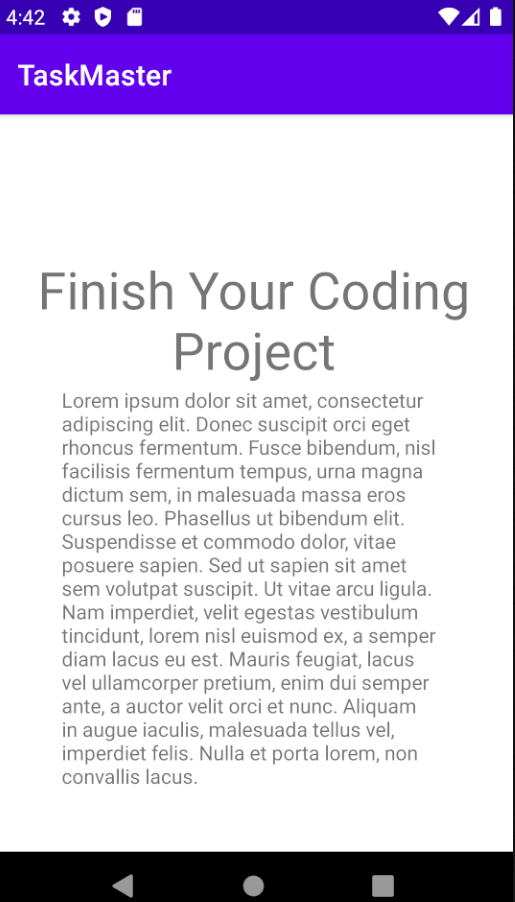
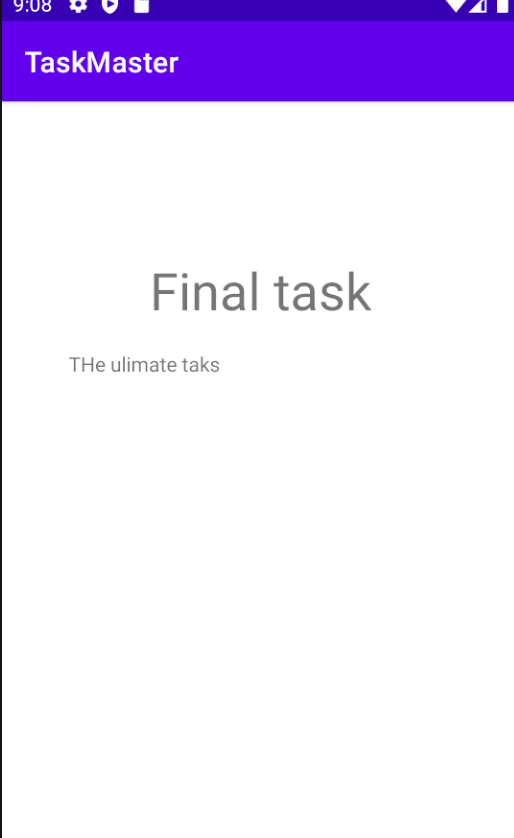
Finished lab 29 with working app and features

Changed region(s): [[0.0623, 0.2792, 0.9339, 0.8687], [0.0, 0.0, 1.0, 1.0]]

diff --git a/app/src/main/java/com/potatogod123/taskmaster/MainActivity.java b/app/src/main/java/com/potatogod123/taskmaster/MainActivity.java
@@ -3,6 +3,7 @@ package com.potatogod123.taskmaster;
 import androidx.appcompat.app.AppCompatActivity;
 import androidx.recyclerview.widget.LinearLayoutManager;
 import androidx.recyclerview.widget.RecyclerView;
+import androidx.room.Room;
 
 import android.content.Intent;
 import android.content.SharedPreferences;
@@ -21,12 +22,15 @@ import java.util.Locale;
 public class MainActivity extends AppCompatActivity implements TaskRecycleAdapter.ClickOnTaskButtonAble {
     static TaskRecycleAdapter taskRecycleAdapter;
 
-    public static List<TaskModel> allTask = new ArrayList<>();
+    //set this up as a service so it can use else where with autowire :))))
+    TaskDatabase taskDatabase;
+
+//    public static List<TaskModel> allTask = new ArrayList<>();
 
     static{
-        allTask.add(new TaskModel("Buy a dog","Go and buy a dog, steal one whatever"));
-        allTask.add(new TaskModel("Sell a dog","Go and sell a dog, give it for free whatever"));
-        allTask.add(new TaskModel("Use the Restroom","quick! it's been a long day :("));
+//        allTask.add(new TaskModel("Buy a dog","Go and buy a dog, steal one whatever"));
+//        allTask.add(new TaskModel("Sell a dog","Go and sell a dog, give it for free whatever"));
+//        allTask.add(new TaskModel("Use the Restroom","quick! it's been a long day :("));
     }
 
     @Override
@@ -39,18 +43,15 @@ public class MainActivity extends AppCompatActivity implements TaskRecycleAdapte
         Button goToAllTaskButton = findViewById(R.id.goToAllTaskButton);
         Button goSettingsButton = findViewById(R.id.goToSettingsButton);
 
-        RecyclerView recyclerView = findViewById(R.id.taskRecyclerViewMain);
-        recyclerView.setLayoutManager(new LinearLayoutManager(this));
-        taskRecycleAdapter= new TaskRecycleAdapter(this);
 
-        recyclerView.setAdapter(taskRecycleAdapter);
 
-        Button recyclerButton = findViewById(R.id.recycleButton);
 
-        recyclerButton.setOnClickListener(v -> {
-            Intent intent = new Intent(MainActivity.this, RecyclerViewPractice.class);
-            startActivity(intent);
-        });
+//        Button recyclerButton = findViewById(R.id.recycleButton);
+//
+//        recyclerButton.setOnClickListener(v -> {
+//            Intent intent = new Intent(MainActivity.this, RecyclerViewPractice.class);
+//            startActivity(intent);
+//        });
 
 
 
@@ -76,12 +77,23 @@ public class MainActivity extends AppCompatActivity implements TaskRecycleAdapte
     protected  void onResume(){
         super.onResume();
         SharedPreferences pref = getSharedPreferences("userdetails",MODE_PRIVATE);
-
         String username = pref.getString("username",null);
 
         if(username!=null){
             ((TextView) findViewById(R.id.textViewMainMyTaskTitle)).setText(String.format(Locale.getDefault(),"Welcome %s, These are your task:",username));
         }
+
+        taskDatabase= Room.databaseBuilder(getApplicationContext(), TaskDatabase.class,"potatogod123_task")
+                .allowMainThreadQueries()
+                .build();
+
+        List<TaskModel> allTask = taskDatabase.taskModelDao().findAll();
+
+        RecyclerView recyclerView = findViewById(R.id.taskRecyclerViewMain);
+        recyclerView.setLayoutManager(new LinearLayoutManager(this));
+        taskRecycleAdapter= new TaskRecycleAdapter(this,allTask,0);
+
+        recyclerView.setAdapter(taskRecycleAdapter);
     }
 
 

diff --git a/app/src/main/java/com/potatogod123/taskmaster/adapters/TaskRecycleAdapter.java b/app/src/main/java/com/potatogod123/taskmaster/adapters/TaskRecycleAdapter.java
@@ -1,5 +1,6 @@
 package com.potatogod123.taskmaster.adapters;
 
+import android.graphics.Color;
 import android.util.Log;
 import android.view.LayoutInflater;
 import android.view.View;
@@ -11,20 +12,33 @@ import androidx.annotation.NonNull;
 import androidx.recyclerview.widget.RecyclerView;
 
 import com.potatogod123.taskmaster.R;
+import com.potatogod123.taskmaster.models.TaskModel;
 
-import static com.potatogod123.taskmaster.MainActivity.allTask;
+import java.util.List;
+import java.util.Random;
+
 
 public class TaskRecycleAdapter extends RecyclerView.Adapter<TaskRecycleAdapter.TaskViewHolder> {
 
+    public int fragmentChose;
     public ClickOnTaskButtonAble clickOnTaskButtonAble;
-
+    public List<TaskModel> allTask;
     @NonNull
     @Override
     public TaskViewHolder onCreateViewHolder(@NonNull ViewGroup parent, int viewType) {
 
+        int fragmentChosen;
+
+        switch (fragmentChose){
+            case 1: fragmentChosen=R.layout.fragment_all_task;
+            break;
+            default:
+                fragmentChosen=R.layout.fragment_task;
+        }
 
         View fragment = LayoutInflater.from(parent.getContext())
-                .inflate(R.layout.fragment_task,parent,false);
+                .inflate(fragmentChosen,parent,false);
+
 
         TaskViewHolder taskViewHolder = new TaskViewHolder(fragment);
 
@@ -43,7 +57,7 @@ public class TaskRecycleAdapter extends RecyclerView.Adapter<TaskRecycleAdapter.
         ((TextView) holder.itemView.findViewById(R.id.recyclerTaskName)).setText(title);
 
         Button button = holder.itemView.findViewById(R.id.recyclerGoToTakButton);
-
+        button.setBackgroundColor(randomColor());
         button.setOnClickListener(v -> {
             Log.i("TaskRecycleAdapter",holder.toString());
             clickOnTaskButtonAble.handleClickOnButton(holder);
@@ -57,8 +71,10 @@ public class TaskRecycleAdapter extends RecyclerView.Adapter<TaskRecycleAdapter.
         return allTask.size();
     }
 
-    public TaskRecycleAdapter(ClickOnTaskButtonAble clickOnTaskButtonAble){
+    public TaskRecycleAdapter(ClickOnTaskButtonAble clickOnTaskButtonAble,List<TaskModel> allTask, int fragmentPicked){
+        this.allTask=allTask;
         this.clickOnTaskButtonAble = clickOnTaskButtonAble;
+        this.fragmentChose=fragmentPicked;
     }
 
     public interface ClickOnTaskButtonAble{
@@ -97,5 +113,13 @@ public class TaskRecycleAdapter extends RecyclerView.Adapter<TaskRecycleAdapter.
         public void setIndex(int index) {
             this.index = index;
         }
+    }
+
+    public int randomColor() {
+        Random r = new Random();
+        int red = r.nextInt(256);
+        int green = r.nextInt(256);
+        int blue = r.nextInt(256);
+        return Color.rgb(red, green, blue);
     }
 }

diff --git a/app/src/main/java/com/potatogod123/taskmaster/AddTask.java b/app/src/main/java/com/potatogod123/taskmaster/AddTask.java
@@ -1,6 +1,7 @@
 package com.potatogod123.taskmaster;
 
 import androidx.appcompat.app.AppCompatActivity;
+import androidx.room.Room;
 
 import android.os.Bundle;
 import android.widget.Button;
@@ -10,13 +11,13 @@ import android.widget.Toast;
 
 import com.potatogod123.taskmaster.models.TaskModel;
 
+import java.util.List;
 import java.util.Locale;
 
-import static com.potatogod123.taskmaster.MainActivity.allTask;
 import static com.potatogod123.taskmaster.MainActivity.taskRecycleAdapter;
 
 public class AddTask extends AppCompatActivity {
-
+    TaskDatabase taskDatabase;
 
     @Override
     protected void onCreate(Bundle savedInstanceState) {
@@ -27,12 +28,20 @@ public class AddTask extends AppCompatActivity {
 //        }
         Button addTaskButton = findViewById(R.id.addTaskButton);
 
+        taskDatabase= Room.databaseBuilder(getApplicationContext(), TaskDatabase.class,"potatogod123_task")
+                .allowMainThreadQueries()
+                .build();
+
         addTaskButton.setOnClickListener(view->{
 
             String title = ((EditText) findViewById(R.id.editTextTaskTitle)).getText().toString();
             String description = ((EditText) findViewById(R.id.editTextDescription)).getText().toString();
 
-            allTask.add(new TaskModel(title,description));
+            TaskModel newTask = new TaskModel(title,description);
+            taskDatabase.taskModelDao().insert(newTask);
+
+            List<TaskModel> allTask = taskDatabase.taskModelDao().findAll();
+
             ((TextView) findViewById(R.id.textViewTotalTask)).setText(String.format(Locale.getDefault(),"Total Task: %d",allTask.size()));
 
             Toast.makeText(this,"Your task, "+title+ ", has been made!",Toast.LENGTH_LONG).show();
@@ -46,6 +55,6 @@ public class AddTask extends AppCompatActivity {
     @Override
     protected  void onResume(){
         super.onResume();
-        ((TextView) findViewById(R.id.textViewTotalTask)).setText(String.format(Locale.getDefault(),"Total Task: %d",allTask.size()));
+        ((TextView) findViewById(R.id.textViewTotalTask)).setText(String.format(Locale.getDefault(),"Total Task: %d",taskDatabase.taskModelDao().findAll().size()));
     }
 }

diff --git a/app/src/main/java/com/potatogod123/taskmaster/AllTask.java b/app/src/main/java/com/potatogod123/taskmaster/AllTask.java
@@ -1,14 +1,54 @@
 package com.potatogod123.taskmaster;
 
 import androidx.appcompat.app.AppCompatActivity;
+import androidx.recyclerview.widget.LinearLayoutManager;
+import androidx.recyclerview.widget.RecyclerView;
+import androidx.room.Room;
 
+import android.content.Intent;
 import android.os.Bundle;
+import android.util.Log;
 
-public class AllTask extends AppCompatActivity {
+import com.potatogod123.taskmaster.adapters.TaskRecycleAdapter;
+import com.potatogod123.taskmaster.models.TaskModel;
+
+import java.util.List;
+
+public class AllTask extends AppCompatActivity implements TaskRecycleAdapter.ClickOnTaskButtonAble{
+    TaskDatabase taskDatabase;
 
     @Override
     protected void onCreate(Bundle savedInstanceState) {
         super.onCreate(savedInstanceState);
         setContentView(R.layout.activity_all_task);
+    }
+
+
+    @Override
+    protected void onResume() {
+        super.onResume();
+
+        taskDatabase= Room.databaseBuilder(getApplicationContext(), TaskDatabase.class,"potatogod123_task")
+                .allowMainThreadQueries()
+                .build();
+        List<TaskModel> allTask = taskDatabase.taskModelDao().findAll();
+        Log.i("AllTask.potatogod123" , ""+allTask.size());
+
+        RecyclerView recyclerView = findViewById(R.id.allTaskRecyclerView);
+        recyclerView.setLayoutManager(new LinearLayoutManager(this));
+        recyclerView.setAdapter(new TaskRecycleAdapter(this,allTask,1));
+    }
+
+    @Override
+    public void handleClickOnButton(TaskRecycleAdapter.TaskViewHolder taskViewHolder) {
+        buttonHelper(taskViewHolder);
+    }
+
+    protected void buttonHelper(TaskRecycleAdapter.TaskViewHolder holder){
+        Intent intent = new Intent(this,TaskDetail.class);
+
+        intent.putExtra("taskTitle",holder.getTitle());
+        intent.putExtra("description", holder.getDescription());
+        startActivity(intent);
     }
 }

diff --git a/app/src/main/java/com/potatogod123/taskmaster/fragments/AllTaskFragment.java b/app/src/main/java/com/potatogod123/taskmaster/fragments/AllTaskFragment.java
@@ -1,0 +1,57 @@
+package com.potatogod123.taskmaster.fragments;
+
+import android.os.Bundle;
+
+import androidx.fragment.app.Fragment;
+
+import android.view.LayoutInflater;
+import android.view.View;
+import android.view.ViewGroup;
+
+import com.potatogod123.taskmaster.R;
+
+/**
+ * A simple {@link Fragment} subclass.
+ * Use the {@link AllTaskFragment#newInstance} factory method to
+ * create an instance of this fragment.
+ */
+public class AllTaskFragment extends Fragment {
+
+    // TODO: Rename parameter arguments, choose names that match
+    // the fragment initialization parameters, e.g. ARG_ITEM_NUMBER
+
+
+    // TODO: Rename and change types of parameters
+
+
+    public AllTaskFragment() {
+        // Required empty public constructor
+    }
+
+    /**
+     * Use this factory method to create a new instance of
+     * this fragment using the provided parameters.
+     *
+     * @param param1 Parameter 1.
+     * @param param2 Parameter 2.
+     * @return A new instance of fragment AllTaskFragment.
+     */
+    // TODO: Rename and change types and number of parameters
+    public static AllTaskFragment newInstance(String param1, String param2) {
+        AllTaskFragment fragment = new AllTaskFragment();
+        return fragment;
+    }
+
+    @Override
+    public void onCreate(Bundle savedInstanceState) {
+        super.onCreate(savedInstanceState);
+
+    }
+
+    @Override
+    public View onCreateView(LayoutInflater inflater, ViewGroup container,
+                             Bundle savedInstanceState) {
+        // Inflate the layout for this fragment
+        return inflater.inflate(R.layout.fragment_all_task, container, false);
+    }
+}

diff --git a/app/src/main/java/com/potatogod123/taskmaster/daos/TaskModelDao.java b/app/src/main/java/com/potatogod123/taskmaster/daos/TaskModelDao.java
@@ -1,0 +1,24 @@
+package com.potatogod123.taskmaster.daos;
+
+import androidx.room.Dao;
+import androidx.room.Insert;
+import androidx.room.Query;
+
+import com.potatogod123.taskmaster.models.TaskModel;
+
+import java.util.List;
+
+@Dao
+public interface TaskModelDao {
+
+    @Insert
+    public void insert(TaskModel taskModel);
+
+    @Query("SELECT * FROM TaskModel")
+    public List<TaskModel> findAll();
+
+    @Query("SELECT * FROM TaskModel ORDER BY id DESC")
+    public List<TaskModel> findAllReversed();
+
+
+}

diff --git a/app/src/main/java/com/potatogod123/taskmaster/TaskDatabase.java b/app/src/main/java/com/potatogod123/taskmaster/TaskDatabase.java
@@ -1,0 +1,12 @@
+package com.potatogod123.taskmaster;
+
+import androidx.room.Database;
+import androidx.room.RoomDatabase;
+
+import com.potatogod123.taskmaster.daos.TaskModelDao;
+import com.potatogod123.taskmaster.models.TaskModel;
+
+@Database(entities = {TaskModel.class},version = 1)
+public abstract class TaskDatabase extends RoomDatabase {
+    public abstract TaskModelDao taskModelDao();
+}

diff --git a/app/src/main/java/com/potatogod123/taskmaster/models/TaskModel.java b/app/src/main/java/com/potatogod123/taskmaster/models/TaskModel.java
@@ -1,6 +1,13 @@
 package com.potatogod123.taskmaster.models;
 
+import androidx.room.Entity;
+import androidx.room.PrimaryKey;
+
+@Entity
 public class TaskModel {
+    @PrimaryKey(autoGenerate =true)
+    public long id;
+
     private String title;
     private String description;
 

diff --git a/README.md b/README.md
@@ -5,9 +5,11 @@ Keep track of your task!
 
 ## Author: Cristian Robles
 
-## Version 1.0.1
+## Version 1.1.0
 
 ## Change Log
+
+1.1.0- Overhauled some Ui changes, now functional add task with a working database. New recycler ui elements with different fragments being used depending on the chosen number. User can now view the task by clicking on the button to be taken to the task details activity.
 
 1.0.1- Added settings and task details with additional buttons.
 
@@ -16,3 +18,5 @@ Keep track of your task!
 ![Home Page](./screenshots/screenshoot.PNG)
 
 ![Task Detail Page](./screenshots/taskdetail.PNG)
+
+![All Task Page](./screenshots/allTask.PNG)
